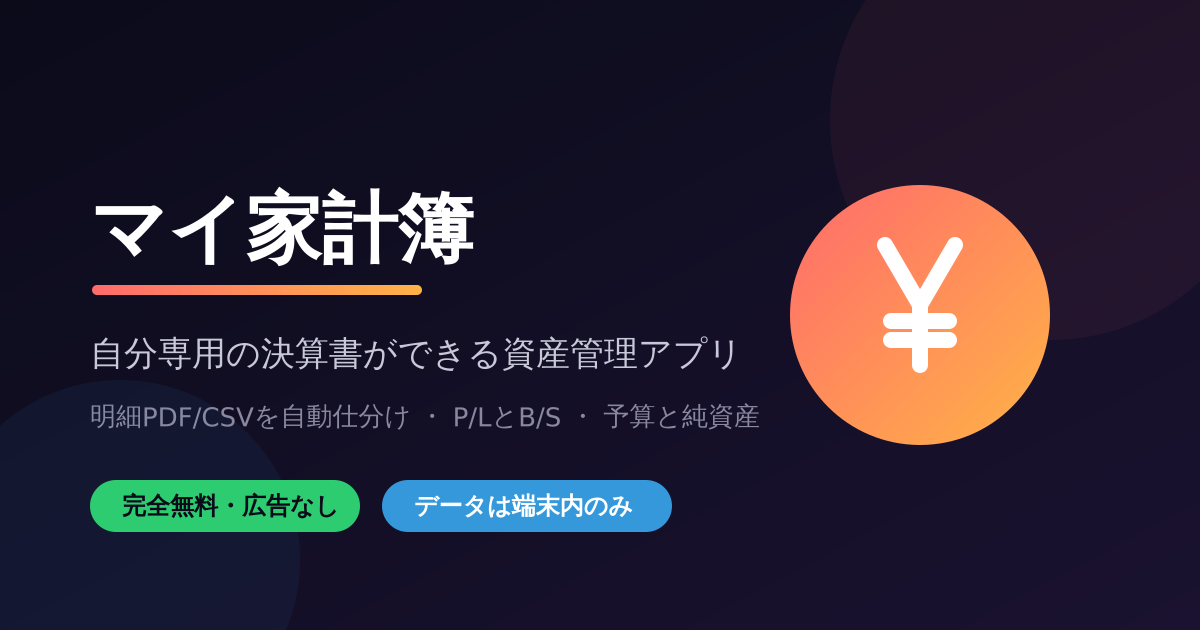
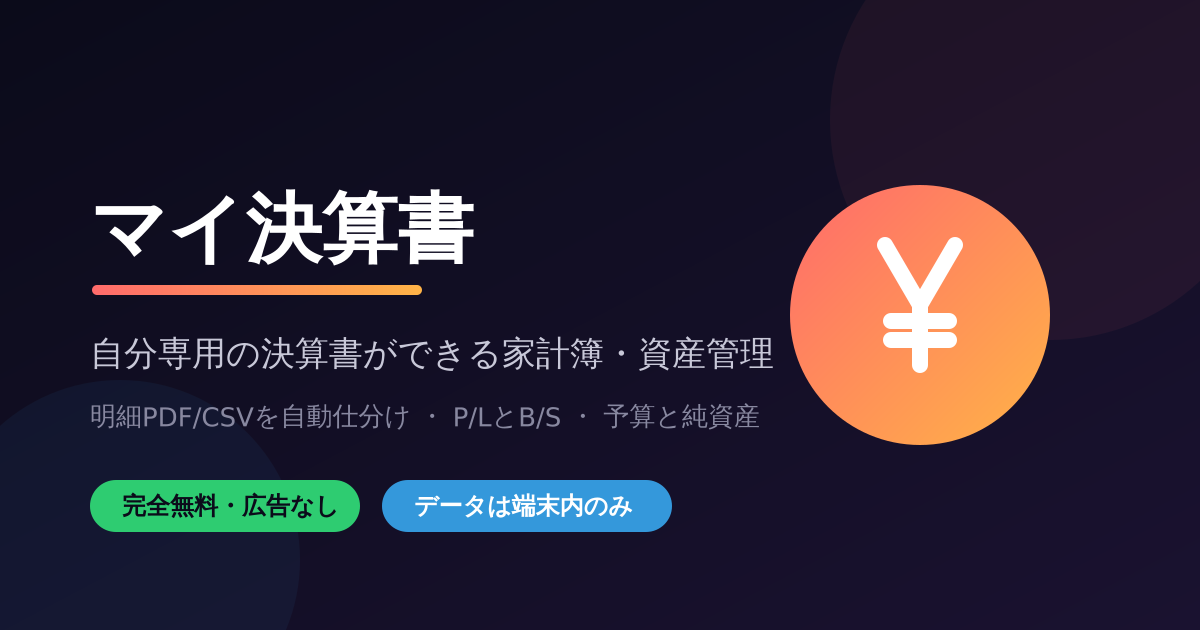
アプリ名を「マイ決算書」に確定・全体に反映
- manifest(name/short_name/description)・メタタイトル・OGP/Twitterタイトルを更新
- OGP画像(og.png)を「マイ決算書」で再生成
- アプリ内: ホームのブランド表記とAbout文を更新
- 決算タブの見出しはアプリ名との重複を避け「決算書（P/L・B/S）」に変更
- READMEタイトル更新
- 旧名「マイ家計簿」の残存なしを確認、ビルド・表示ともに検証済み

Claude-Session: https://claude.ai/code/session_01QxfgQGU2Q8QwYm4bouKzqC

Changed region(s): [[0.185, 0.3016, 0.4008, 0.4222], [0.4008, 0.5127, 0.6475, 0.6032]]

diff --git a/src/app/page.tsx b/src/app/page.tsx
@@ -774,7 +774,7 @@ export default function Home() {
 
         {pg==="home"&&(<div>
           <div style={{display:"flex",justifyContent:"space-between",alignItems:"center",marginBottom:16}}>
-            <h1 style={{fontSize:18,fontWeight:700,margin:0,background:"linear-gradient(135deg,#FF6B6B,#FFB347)",WebkitBackgroundClip:"text",WebkitTextFillColor:"transparent"}}>💰 マイ家計簿</h1>
+            <h1 style={{fontSize:18,fontWeight:700,margin:0,background:"linear-gradient(135deg,#FF6B6B,#FFB347)",WebkitBackgroundClip:"text",WebkitTextFillColor:"transparent"}}>💰 マイ決算書</h1>
             <div style={{display:"flex",gap:4,alignItems:"center"}}>
               <button onClick={()=>shiftMonth(-1)} style={{background:"rgba(255,255,255,0.06)",border:"1px solid #333",color:"#ccc",padding:"5px 9px",borderRadius:8,fontSize:12,cursor:"pointer"}}>‹</button>
               <button onClick={()=>sShM(true)} style={{background:"rgba(255,255,255,0.06)",border:"1px solid #333",color:"#ccc",padding:"5px 10px",borderRadius:8,fontSize:12,cursor:"pointer"}}>📅 {cm}</button>
@@ -865,7 +865,7 @@ export default function Home() {
         </div>)}
 
         {pg==="statement"&&(<div>
-          <h2 style={{fontSize:16,fontWeight:700,margin:"0 0 2px",color:"#eee"}}>📑 マイ決算書</h2>
+          <h2 style={{fontSize:16,fontWeight:700,margin:"0 0 2px",color:"#eee"}}>📑 決算書（P/L・B/S）</h2>
           <p style={{fontSize:10,color:"#666",margin:"0 0 14px"}}>あなた専用の損益計算書(P/L)と貸借対照表(B/S)</p>
           {tE===0&&tI===0&&<div style={cs({textAlign:"center",padding:"20px 16px"})}>
             <div style={{fontSize:26,marginBottom:6}}>📭</div>
@@ -1174,7 +1174,7 @@ export default function Home() {
             </div>}
           </div>
           <div style={cs()}><h3 style={{fontSize:12,fontWeight:600,margin:"0 0 6px",color:"#ccc"}}>ℹ このアプリについて</h3>
-            <p style={{fontSize:11,color:"#999",margin:0,lineHeight:1.8}}>💰 マイ家計簿 — <b style={{color:"#bbb"}}>完全無料・広告なし・登録不要</b>。すべてのデータはこの端末のブラウザ内にのみ保存され、外部には一切送信されません。分析・コメントもすべて端末内で動きます。<br/>
+            <p style={{fontSize:11,color:"#999",margin:0,lineHeight:1.8}}>💰 マイ決算書 — <b style={{color:"#bbb"}}>完全無料・広告なし・登録不要</b>。すべてのデータはこの端末のブラウザ内にのみ保存され、外部には一切送信されません。分析・コメントもすべて端末内で動きます。<br/>
             <span style={{color:"#777"}}>困ったとき：データが消えた→「バックアップの読み込み」で復元 ／ 仕分けが違う→明細でカテゴリをタップして修正（自動で学習）／ カテゴリを増やしたい→上の「カテゴリの管理」</span></p>
           </div>
           <button onClick={()=>{if(confirm("全データをリセット？（先にバックアップの書き出しをおすすめします）")) sD(freshState());}} style={{background:"rgba(231,76,60,0.08)",border:"1px solid rgba(231,76,60,0.2)",color:"#E74C3C",padding:"10px 0",borderRadius:10,fontSize:11,cursor:"pointer",width:"100%",marginTop:8}}>🗑 リセット</button>

diff --git a/src/app/layout.tsx b/src/app/layout.tsx
@@ -3,18 +3,18 @@ import "./globals.css";
 
 const APP_DESC = "カード明細(PDF/CSV)を自動仕分けし、自分専用の決算書(P/L・B/S)ができる無料の家計簿・資産管理アプリ。データは端末内のみ・広告なし・登録不要。";
 export const metadata: Metadata = {
-  title: "マイ家計簿 — 自分専用の決算書ができる資産管理アプリ",
+  title: "マイ決算書 — 自分専用の決算書ができる家計簿・資産管理アプリ",
   description: APP_DESC,
   manifest: "/manifest.json",
-  appleWebApp: { capable: true, statusBarStyle: "black-translucent", title: "家計簿" },
+  appleWebApp: { capable: true, statusBarStyle: "black-translucent", title: "マイ決算書" },
   icons: { icon: "/icon-192.png", apple: "/icon-192.png" },
   openGraph: {
-    title: "マイ家計簿",
+    title: "マイ決算書",
     description: APP_DESC,
     type: "website",
     images: [{ url: "/og.png", width: 1200, height: 630 }],
   },
-  twitter: { card: "summary_large_image", title: "マイ家計簿", description: APP_DESC, images: ["/og.png"] },
+  twitter: { card: "summary_large_image", title: "マイ決算書", description: APP_DESC, images: ["/og.png"] },
 };
 export const viewport: Viewport = {
   width: "device-width", initialScale: 1, maximumScale: 1, userScalable: false, themeColor: "#0b0b1a",

diff --git a/README.md b/README.md
@@ -1,4 +1,4 @@
-# 💰 マイ家計簿 ＆ 資産管理
+# 💰 マイ決算書
 
 カード明細（PDF/CSV）を自動仕分けし、会社の決算書のように
 **自分専用のP/L（損益計算書）とB/S（貸借対照表）** で家計を見える化する、
